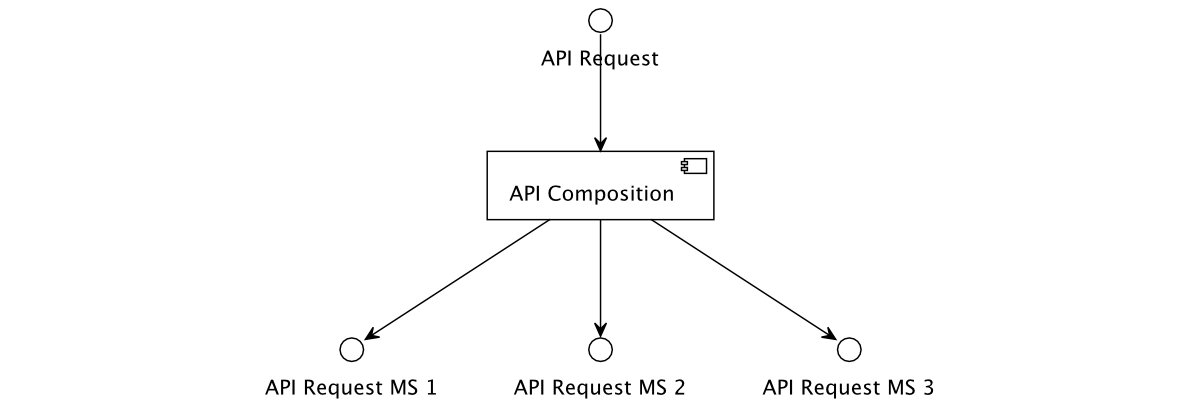
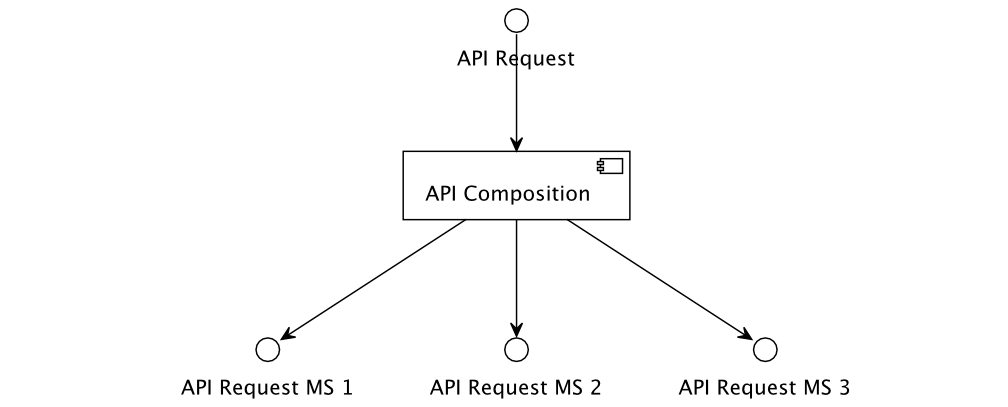
add: joins

diff --git a/thesis/content/03-msa-db.tex b/thesis/content/03-msa-db.tex
@@ -40,13 +40,13 @@ Sdílená databáze poskytuje všechna svoje úložiště všem mikroslužbám, 
    \caption{Architektura sdílené databáze}\label{fig:db-shared}
 \end{figure}
 
-Výhody
+\textbf{Výhody}
 \begin{ul}
    \item Typické použití \g{ACID} pro provádění transakcí~\cite{shareddb}.
    \item Správa jedné databáze je jednodušší~\cite{shareddb}.
 \end{ul}
 
-Nevýhody
+\textbf{Nevýhody}
 \begin{ul}
    \item Databázové migrace se netýkají pouze jedné mikroslužby, ale všech zároveň, musí se vyčlenit místo pro jejich uchovávání.
    \item V případě jakékoliv změny struktury databáze je třeba změnit a otestovat všechny mikroslužby~\cite{shareddb}.
@@ -67,13 +67,13 @@ V případě vyčlenění jednoho schématu, či celé databáze pro každou mik
 
 
 
-Výhody
+\textbf{Výhody}
 \begin{ul}
    \item Zmenšení provázanosti mikroslužeb a dat, jež jsou využívány – lepší správa migrací a jiných změn~\cite{dbperservice}.
    \item Lepší možnosti škálování a volby databáze – mikroslužbě je možné poskytnout takové prostředí, které bude nejvhodnější~\cite{dbperservice}.
 \end{ul}
 
-Nevýhody
+\textbf{Nevýhody}
 \begin{ul}
    \item Problém se spojováním dat z více úložiští – nelze například provádět \h{JOIN}, párovat dle cizího klíče s kontrolou integritního omezení~\cite{dbperservice}.
    \item Problém s transakčním zpracováním – transakční operace nad několika databázemi nelze jednoduše provádět a je lepší se jim úplně vyhýbat~\cite{dbperservice}.
@@ -93,10 +93,36 @@ Spojení v tomto případě nemůžeme nechávat na databázi, situace se může
 
 \subsection{API kompozice}\label{subsec:msa-db-aggregate-api}
 
-Nejjednodušší řešení spojení dat – zpracování v paměti na straně aplikace.
+API kompozice je řešení bez využití dodatečných systémů.
+Spočívá v logickém rozdělení původního dotazu na parciální dle jednotlivých mikroslužeb a následným provedení například simulace \h{JOIN} operace v aplikaci (v paměti)~\cite{apicomposition}.
+Schématicky je tato operace znázorněna na obrázku~\ref{fig:api-composition}.
+Samozřejmě takové řešení může přinést větší nároky na paměť v případě pracování obrovských datových celků.
+
+
+\begin{figure}[htbp]
+   \centering
+   \includegraphics[max width=\textwidth]{assets/api-composition}
+   \caption{Schéma vzoru API kompozice}\label{fig:api-composition}
+\end{figure}
+
 
 
 \subsection{CQRS}\label{subsec:msa-db-aggregate-cqrs}
+
+\g{CQRS} vzor může soužit jako řešení s nedostatkem pamětí, případně výkonu, které vzniká operováním s daty v aplikaci.
+Absence možnosti spojení je tu řešena dodatečnou, eventuálně konzistentní databází~\cite{msachris}, viz obrázek~\ref{fig:cqrs}.
+Slouží jako zdroj dat pro čtení, který obsahuje kopie databázový pohled na strukturu dat potřebou pro provední klientského dotazu.
+Existující relační databáze fungují jako persistentní úložiště pro zápis, uchovávají si informace a posílají potřebnou kopii dat do databáze pro čtení~\cite{cqrs}.
+Takovým způsobem se vytváří databáze, která obsahuje minimální potřebné množeství informací například pro operaci \h{JOIN} bez nutnosti přístupu s databázím mikroslužeb.
+Samozřejmě je nutné zajistit eventuální konzistenci takové databáze, aby nedocházelo ke ztrátě dat~\cite{cqrs}.
+
+
+
+\begin{figure}[htbp]
+   \centering
+   \includegraphics[max width=\textwidth]{assets/cqrs}
+   \caption{Zjednodušený model CQRS vzoru}\label{fig:cqrs}
+\end{figure}
 
 
 
